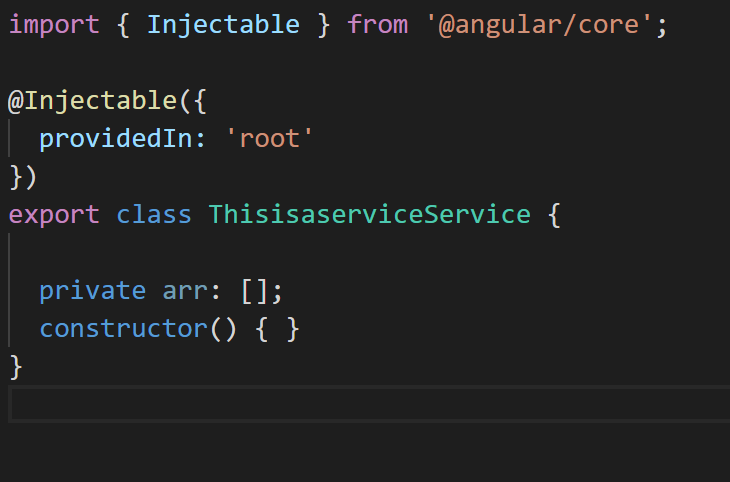
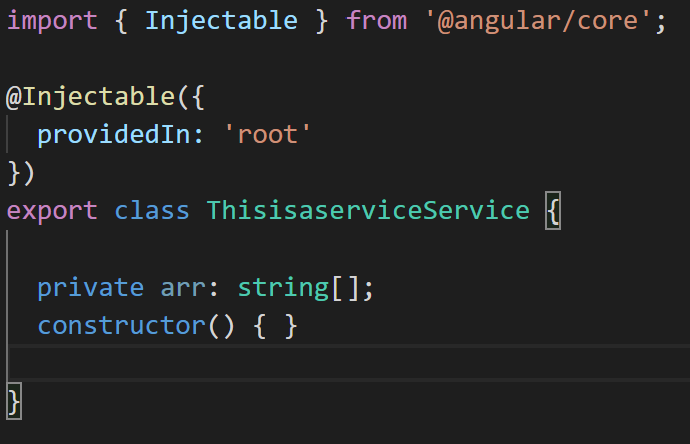
editing app and adding pictures

diff --git a/DemoAngularPWA/src/app/thisisaservice.service.ts b/DemoAngularPWA/src/app/thisisaservice.service.ts
@@ -5,10 +5,18 @@ import { Injectable } from '@angular/core';
 })
 export class ThisisaserviceService {
 
-  private arr: [];
+  private arr: string[];
   constructor() { }
 
   public getData(): any {
     return this.arr;
+  }
+  public addData(data: string): boolean {
+    if (data.length > 0) {
+      this.arr.push(data);
+      return true;
+    } else {
+      return false;
+    }
   }
 }

diff --git a/README.MD b/README.MD
@@ -44,6 +44,14 @@ Dans le dossier src, vous allez trouver les 2 fichiers créés par l'Angular CLI
 
 Pour le moment, vous allez noter des données en dur dans votre service. Par après, vous verrez comment le faire une API par exemple.
 
-Dans le service, on va créer un tableau d'Any.
+Dans le service, on va créer un tableau de string.
+
 ![Créer un tableau arr privé](https://github.com/micbelgique/AngularPWA-101/blob/master/pictures/CreateArrayAny.png)
+
 Ensuite, nous allons créer une fonction qui va renvoyer un type Any et qui sera chargée de renvoyer les données.
+
+![Créer une fonction getData](https://github.com/micbelgique/AngularPWA-101/blob/master/pictures/GetDataFunction.png)
+
+Pour bien faire, il faut qu'on puisse ajouter des données dans notre système. Pour se faire, nous allons donc créer une fonction qui va renvoyer un booléen. Si il a réussi à l'ajouter, se sera true, sinon, ce sera false.
+
+![Créer une function AddData](https://github.com/micbelgique/AngularPWA-101/blob/master/pictures/AddDataFunction.png)
